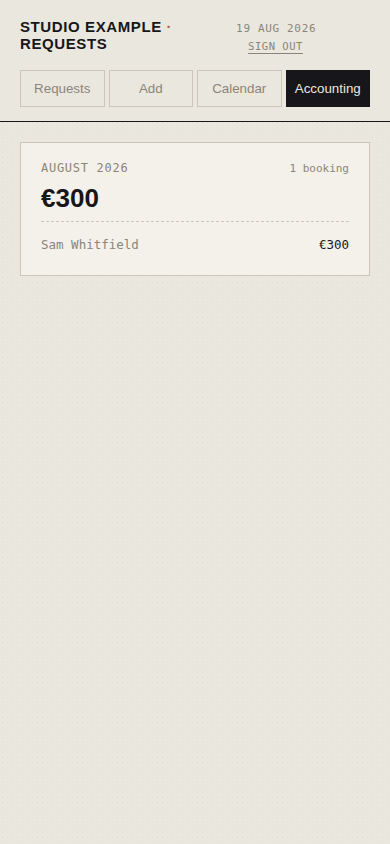
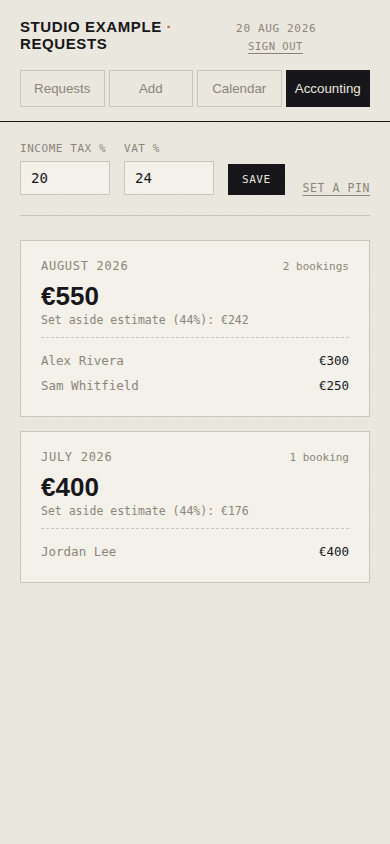
Add files via upload

diff --git a/index.html b/index.html
@@ -317,8 +317,8 @@
       </div>
       <div class="feature">
         <div class="k">Your numbers</div>
-        <h3>Know what you made</h3>
-        <p>Add a confirmed price to any booking and see it totalled up by month, no separate spreadsheet needed.</p>
+        <h3>Know what you made, privately</h3>
+        <p>Add a confirmed price to any booking and see it totalled up by month. Lock the whole tab behind your own PIN, so it's just for you, not whoever's helping out that day. Set your tax and VAT rates once and it works out roughly what to put aside as you go.</p>
       </div>
       <div class="feature">
         <div class="k">Your phone</div>
